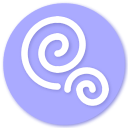
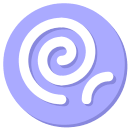
go flat

diff --git a/src/main.js b/src/main.js
@@ -1,6 +1,6 @@
 // Generated by CoffeeScript 1.6.3
 (function() {
-  var add, config, halfCircle, letterC, letterR, paint, paper, square, sub, svg, times;
+  var add, config, halfCircle, letterC, letterR, paint, paper, quaterCircle, square, sub, svg, times;
 
   svg = Snap('#svg');
 
@@ -13,7 +13,7 @@
   paper = svg.paper;
 
   config = {
-    width: 20
+    width: 30
   };
 
   square = function(x) {
@@ -47,15 +47,21 @@
     return half = paper.path("M" + s.x + " " + s.y + " A" + r + "," + r + " 0 0,0 " + e.x + " " + e.y);
   };
 
+  quaterCircle = function(s, e) {
+    var half, r;
+    r = Math.sqrt((square(s.x - e.x) + square(s.y - e.y)) / 2);
+    return half = paper.path("M" + s.x + " " + s.y + " A" + r + "," + r + " 0 0,1 " + e.x + " " + e.y);
+  };
+
   letterC = function() {
     var A, B, C, D, E, delta, g, start, step;
     start = {
-      x: 180,
-      y: 140
+      x: 193,
+      y: 160
     };
     delta = {
       x: 0,
-      y: 26
+      y: 30
     };
     step = times(delta, 2);
     A = add(start, delta);
@@ -78,25 +84,22 @@
   };
 
   letterR = function() {
-    var A, B, C, D, E, delta, g, start, step;
+    var center, end, g, r, start;
+    center = {
+      x: 340,
+      y: 310
+    };
+    r = 70;
     start = {
-      x: 270,
-      y: 280
+      x: center.x - r,
+      y: center.y
     };
-    delta = {
-      x: 20,
-      y: 0
+    end = {
+      x: center.x,
+      y: center.y - r
     };
-    step = times(delta, 2);
-    A = add(start, delta);
-    B = sub(start, delta);
-    C = add(A, step);
-    D = sub(B, step);
-    E = add(C, step);
     g = paper.g();
-    g.add(halfCircle(A, B));
-    g.add(halfCircle(B, C));
-    g.add(halfCircle(C, D));
+    g.add(quaterCircle(start, end));
     g.attr({
       stroke: "white",
       strokeWidth: config.width,
@@ -107,8 +110,9 @@
   };
 
   (paint = function() {
-    var g;
-    window.shadow = svg.filter(Snap.filter.shadow(4, 4, 6, '#88d'));
+    var g, offset;
+    offset = 8;
+    window.shadow = svg.filter(Snap.filter.shadow(offset, offset, 1, '#88d'));
     paper.circle(200, 200, 190).attr({
       fill: '#aaf',
       filter: shadow

diff --git a/index.html b/index.html
@@ -11,7 +11,17 @@
   <body>
     <svg id="svg"></svg>
     <p>
+      <a href="https://github.com/Cirru/logo">source code</a>
+    </p>
+
+    <p>
       <a href="cirru.svg">as SVG</a>
+    </p>
+    <p>
+      <a href="cirru-128x128.png">as PNG</a>
+    </p>
+    <p>
+      <a href="cirru-32x32.png">as icon</a>
     </p>
   </body>
 </html>

diff --git a/style.css b/style.css
@@ -1,4 +1,5 @@
 
 body {
-    margin: 20px;
+    margin: 0px 20px;
+    font-family: Optima;
 }
